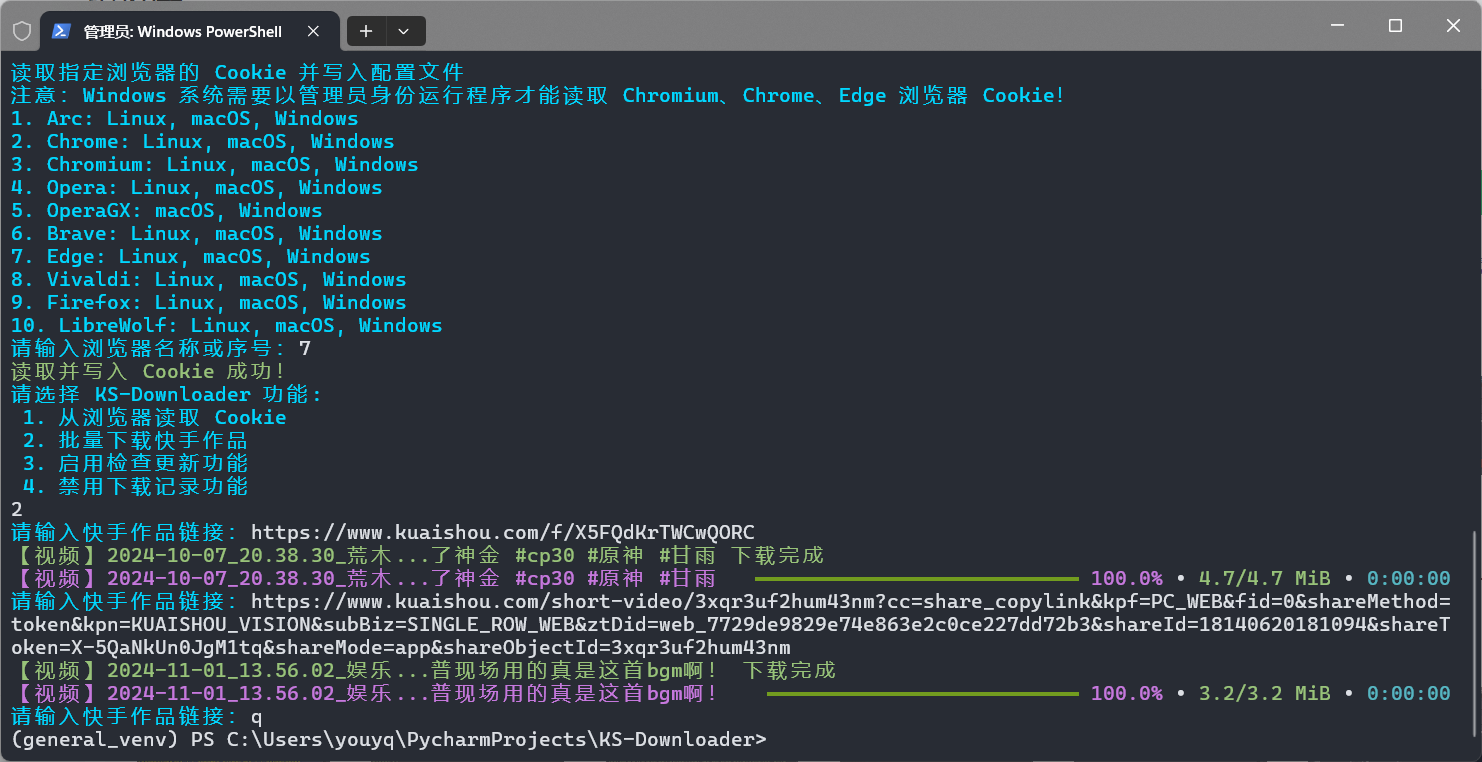
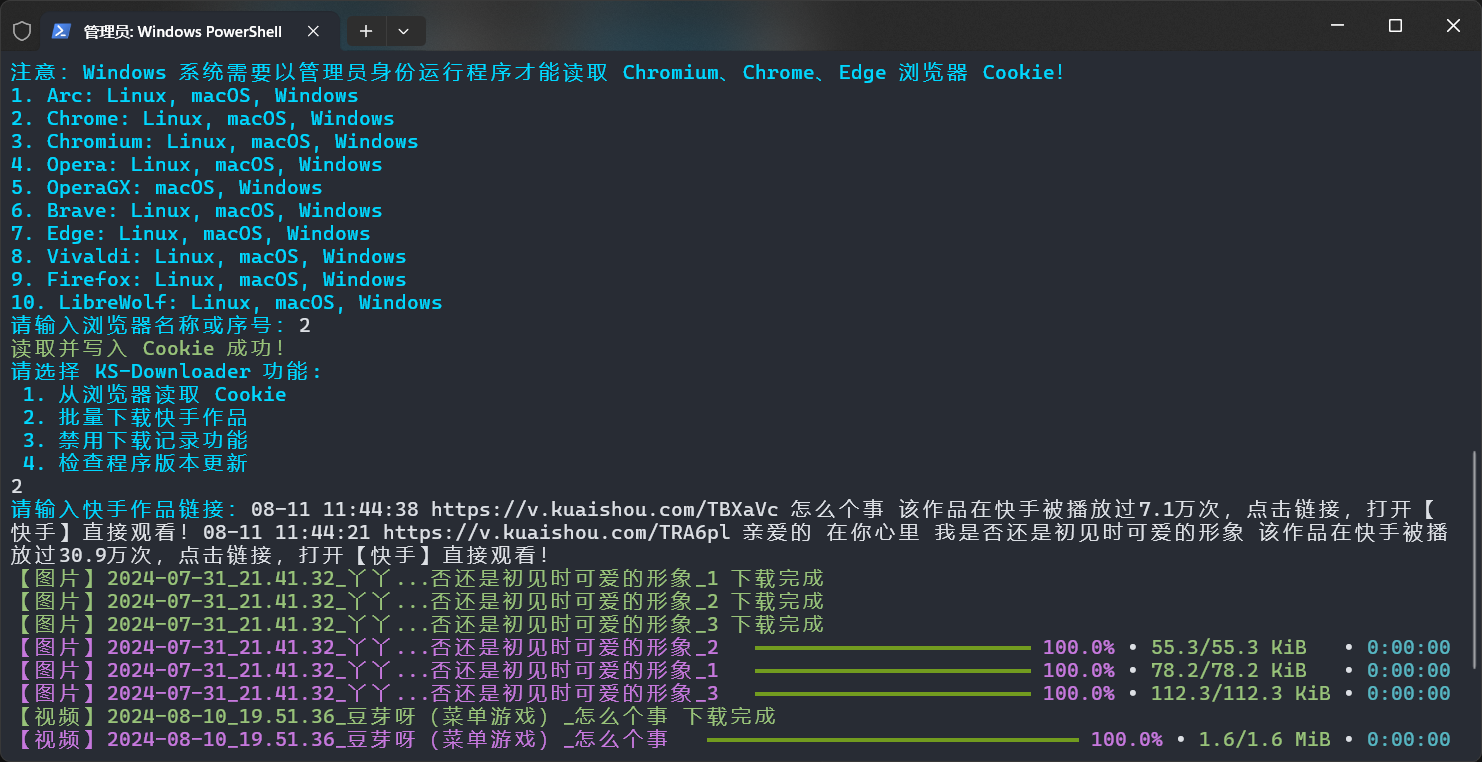
feat: 发布 1.3 版本

Changed region(s): [[0.0, 0.0, 1.0, 1.0]]

diff --git a/source/config/parameter.py b/source/config/parameter.py
@@ -41,7 +41,6 @@ class Parameter:
                  proxy: str | dict = None,
                  cover="",
                  music=False,
-                 download_record: bool = True,
                  data_record: bool = False,
                  chunk=1024 * 1024,
                  folder_mode: bool = False,
@@ -59,7 +58,6 @@ class Parameter:
         self.cookie = self.__check_cookie(cookie)
         self.cover = self.__check_cover(cover)
         self.music = self.check_bool(music, False)
-        self.download_record = self.check_bool(download_record, True)
         self.data_record = self.check_bool(data_record, False)
         self.chunk = self.__check_chunk(chunk)
         self.folder_mode = self.check_bool(folder_mode, False)
@@ -78,7 +76,6 @@ class Parameter:
             "cookie": self.cookie,
             "cover": self.cover,
             "music": self.music,
-            "download_record": self.download_record,
             "data_record": self.data_record,
             "max_workers": self.max_workers,
             "folder_mode": self.folder_mode,

diff --git a/source/manager/manager.py b/source/manager/manager.py
@@ -32,11 +32,12 @@ class Manager:
                  cookie: str,
                  cover: str,
                  music: bool,
-                 download_record: bool,
                  data_record: bool,
                  chunk: int,
                  folder_mode: bool,
                  max_workers: int,
+                 *args,
+                 **kwargs,
                  ):
         self.console = console
         self.cleaner = cleaner
@@ -59,7 +60,6 @@ class Manager:
         self.proxy = proxy
         self.cover = cover
         self.music = music
-        self.download_record = download_record
         self.data_record = data_record
         self.folder_mode = folder_mode
         self.chunk = chunk

diff --git a/source/module/database.py b/source/module/database.py
@@ -5,13 +5,13 @@ from ..static import PROJECT_ROOT
 
 
 class Database:
+    record = 1
     __FILE = "KS-Downloader.db"
 
     def __init__(self, ):
         self.file = PROJECT_ROOT.joinpath(self.__FILE)
         self.database = None
         self.cursor = None
-        self.record = 1
 
     async def __connect_database(self):
         self.database = await connect(self.file)

diff --git a/source/static/internal.py b/source/static/internal.py
@@ -3,7 +3,7 @@ from pathlib import Path
 PROJECT_ROOT = Path(__file__).resolve().parent.parent.parent
 VERSION_MAJOR = 1
 VERSION_MINOR = 3
-VERSION_BETA = True
+VERSION_BETA = False
 PROJECT_NAME = f"KS-Downloader V{VERSION_MAJOR}.{
 VERSION_MINOR}{" Beta" if VERSION_BETA else ""}"
 

diff --git a/source/config/config.py b/source/config/config.py
@@ -19,7 +19,6 @@ class Config:
         "name_format": "发布日期 作者昵称 作品描述",
         "cookie": "",
         "proxy": None,
-        "download_record": True,
         "data_record": False,
         "max_workers": 4,
         "cover": "",

diff --git a/source/app/app.py b/source/app/app.py
@@ -48,6 +48,7 @@ class KS:
     }
 
     DOMAINS: list[str] = [
+        # "chenzhongtech.com",
         "kuaishou.com",
         # "kuaishou.cn",
     ]

diff --git a/README.md b/README.md
@@ -34,9 +34,10 @@
 </ul>
 <p>⭐ KS-Downloader 开发计划及进度可前往 <a href="https://github.com/users/JoeanAmier/projects/6">Projects</a> 查阅</p>
 <h1>📸 程序截图</h1>
-<img src="docs/项目运行截图1.png" alt="">
+<p><b>🎥 点击图片观看演示视频</b></p>
+<a href="https://www.bilibili.com/video/BV19YC4Y7E8E/"><img src="docs/项目运行截图1.png" alt=""></a>
 <hr>
-<img src="docs/项目运行截图2.png" alt="">
+<a href="https://www.bilibili.com/video/BV19YC4Y7E8E/"><img src="docs/项目运行截图2.png" alt=""></a>
 <h1>🥣 使用方法</h1>
 <h2>🖱 程序运行</h2>
 <p>Mac OS、Windows 10 及以上用户可前往 <a href="https://github.com/JoeanAmier/KS-Downloader/releases/latest">Releases</a> 下载程序压缩包，解压后打开程序文件夹，双击运行 <code>main</code> 即可使用。</p>
@@ -131,12 +132,6 @@
 <td align="center">str</td>
 <td align="center">设置程序代理</td>
 <td align="center">null</td>
-</tr>
-<tr>
-<td align="center">download_record</td>
-<td align="center">bool</td>
-<td align="center">是否记录已下载作品 ID，如果启用，将会自动跳过已下载的作品</td>
-<td align="center">true</td>
 </tr>
 <tr>
 <td align="center">data_record</td>

diff --git a/docs/Release_Notes.md b/docs/Release_Notes.md
@@ -2,7 +2,9 @@
 
 1. 优化文件名称非法字符处理
 2. 优化检查版本更新功能
-3. 支持直播域名作品链接
-4. 适配新版本 HTTPX 库
-5. 更新内置 User-Agent
-6. 优化文件下载功能
+3. 移除配置文件无效参数
+4. 支持直播域名作品链接
+5. 适配新版本 HTTPX 库
+6. 更新内置 User-Agent
+7. 优化文件下载功能
+8. 其他细节优化
